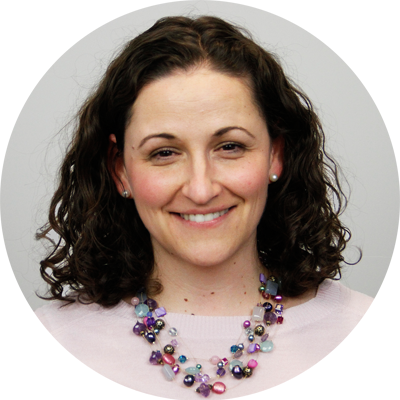
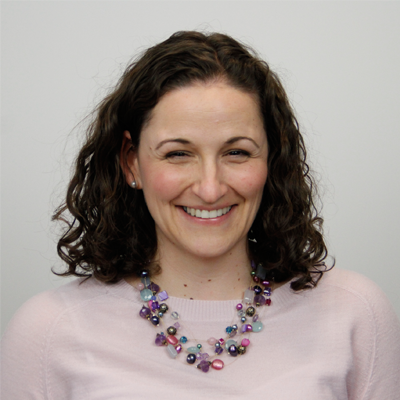
updated Jablow's headshot, separated GSA and 18F links to individual list item lines, updated social proof quotes.

diff --git a/index.html b/index.html
@@ -79,7 +79,7 @@ title: Home
           <div class="col-sm-10 col-sm-offset-1">
             <h2 class="text-center">Fellows serve as agents for change, helping shape our nation</h2>
             <div class="visible-xs visible-sm">
-              <h5><i class="fa fa-quote-left"></i> I became a Presidential Innovation Fellow because it was an amazing opportunity to work within the National Oceanic and Atmospheric Administration (NOAA) to open up great data. My entire career has been built on top of NOAA data, and it is exciting to work on a project that will create new companies, solve big problems, save lives, and help the environment at great scale. <i class="fa fa-quote-right"></i><br/><span class="pull-right">- Alan Steremberg, Class of 2014</span></h5>
+              <h5><i class="fa fa-quote-left"></i> One of the things that I love most about the Fellowship is being able to collaborate with a dedicated community of accomplished innovators. If I'm ever stumped by a sixty-four thousand dollar question, my "phone a friend" readiness has never been better. <i class="fa fa-quote-right"></i><br/><span class="pull-right">- Christopher Daggett, Class of 2014</span></h5>
               <br/>
               <br/>
             </div>
@@ -91,11 +91,52 @@ title: Home
             <li data-target="#carousel-fellow-quote" data-slide-to="0" class="active"></li>
             <li data-target="#carousel-fellow-quote" data-slide-to="1"></li>
             <li data-target="#carousel-fellow-quote" data-slide-to="2"></li>
+            <li data-target="#carousel-fellow-quote" data-slide-to="3"></li>
           </ol>
 
           <!-- Wrapper for slides -->
           <div class="carousel-inner" role="listbox">
             <div class="item active">
+              <div class="container">
+                <div class="row">
+                  <div class="col-md-8">
+                    <h5 id="fellow-preview-quote"><i class="fa fa-quote-left"></i> One of the things that I love most about the Fellowship is being able to collaborate with a dedicated community of accomplished innovators. If I'm ever stumped by a sixty-four thousand dollar question, my "phone a friend" readiness has never been better. <i class="fa fa-quote-right"></i></h5>
+                  </div>
+                  <div class="col-md-4" id="carousel-bio">
+                    <div class="row">
+                      <div class="col-sm-6">
+                        <img src="images/2014/daggett-chris-headshot.png" class="img-circle img-responsive">
+                      </div>
+                      <div class="col-sm-6">
+                        <h4>Christopher Daggett</h4>
+                        <h5>Hawaii<br/>Class of 2014</h5>
+                      </div>
+                    </div>
+                  </div>
+                </div>
+              </div>
+            </div>
+            <div class="item">
+              <div class="container">
+                <div class="row">
+                  <div class="col-md-8">
+                    <h5 id="fellow-preview-quote"><i class="fa fa-quote-left"></i> I enjoy access to so many creative ways to tackle big problems. The networks that Presidential Innovation Fellows have access to as they work on their agency projects are incredible. For example, I was able to co-lead the first White House Mapathon, which gave the current power outage open data project I am working on with the Department of Energy a huge boost! <i class="fa fa-quote-right"></i></h5>
+                  </div>
+                  <div class="col-md-4" id="carousel-bio">
+                    <div class="row">
+                      <div class="col-sm-6">
+                        <img src="images/2014/ross-denice-headshot.png" class="img-circle img-responsive">
+                      </div>
+                      <div class="col-sm-6">
+                        <h4>Denice Ross</h4>
+                        <h5>Tucson, AZ<br/>Class of 2014</h5>
+                      </div>
+                    </div>
+                  </div>
+                </div>
+              </div>
+            </div>
+            <div class="item">
               <div class="container">
                 <div class="row">
                   <div class="col-md-8">
@@ -119,7 +160,7 @@ title: Home
               <div class="container">
                 <div class="row">
                   <div class="col-md-8">
-                    <h5 id="fellow-preview-quote"><i class="fa fa-quote-left"></i> As a Presidential Innovation Fellow, I was given the unique opportunity to not only work with elite doers using innovative technologies to serve the American people, but also, to effect change in the way our government supports innovation by working to create new opportunities for the United States Patent and Trademark Office to engage citizens and improve patent quality. <i class="fa fa-quote-right"></i></h5>
+                    <h5 id="fellow-preview-quote"><i class="fa fa-quote-left"></i> As a Presidential Innovation Fellow, I was given the unique opportunity to not only work with elite doers using innovative technologies to serve the American people, but also, to effect change in the way our government supports innovation by helping the United States Patent and Trademark Office engage citizens to improve patent quality. <i class="fa fa-quote-right"></i></h5>
                   </div>
                   <div class="col-md-4" id="carousel-bio">
                     <div class="row">
@@ -129,26 +170,6 @@ title: Home
                       <div class="col-sm-6">
                         <h4>Chris Wong</h4>
                         <h5>Denver, CO<br/>Class of 2014</h5>
-                      </div>
-                    </div>
-                  </div>
-                </div>
-              </div>
-            </div>
-            <div class="item">
-              <div class="container">
-                <div class="row">
-                  <div class="col-md-8">
-                    <h5 id="fellow-preview-quote"><i class="fa fa-quote-left"></i> One of the things that I love most about the Fellowship is being able to collaborate with a dedicated community of accomplished innovators. If I'm ever stumped by a sixty-four thousand dollar question, my "phone a friend" readiness has never been better. <i class="fa fa-quote-right"></i></h5>
-                  </div>
-                  <div class="col-md-4" id="carousel-bio">
-                    <div class="row">
-                      <div class="col-sm-6">
-                        <img src="images/2014/daggett-chris-headshot.png" class="img-circle img-responsive">
-                      </div>
-                      <div class="col-sm-6">
-                        <h4>Christopher Daggett</h4>
-                        <h5>Hawaii<br/>Class of 2014</h5>
                       </div>
                     </div>
                   </div>

diff --git a/_includes/footer.html b/_includes/footer.html
@@ -29,7 +29,8 @@
               <li><h4><a href="https://www.whitehouse.gov/innovationfellows" target="_blank">White House</a></h4></li>
               <li><h4><a href="https://www.whitehouse.gov/issues" target="_blank">Presidential Priorities</a></h4></li>
               <li><h4><a href="{{ baseurl }}/betalab" target="_blank">BetaLab</a></h4></li>
-              <li><h4><a href="https://gsa.gov" target="_blank">GSA</a> / <a href="https://18f.gsa.gov" target="_blank">18F</a></h4></li>
+              <li><h4><a href="https://gsa.gov" target="_blank">GSA</a></h4></li>
+              <li><h4><a href="https://18f.gsa.gov" target="_blank">18F</a></h4></li>
               <li><h4><a href="https://usds.gov" target="_blank">USDS</a></h4></li>
             </ul>
           </div>
